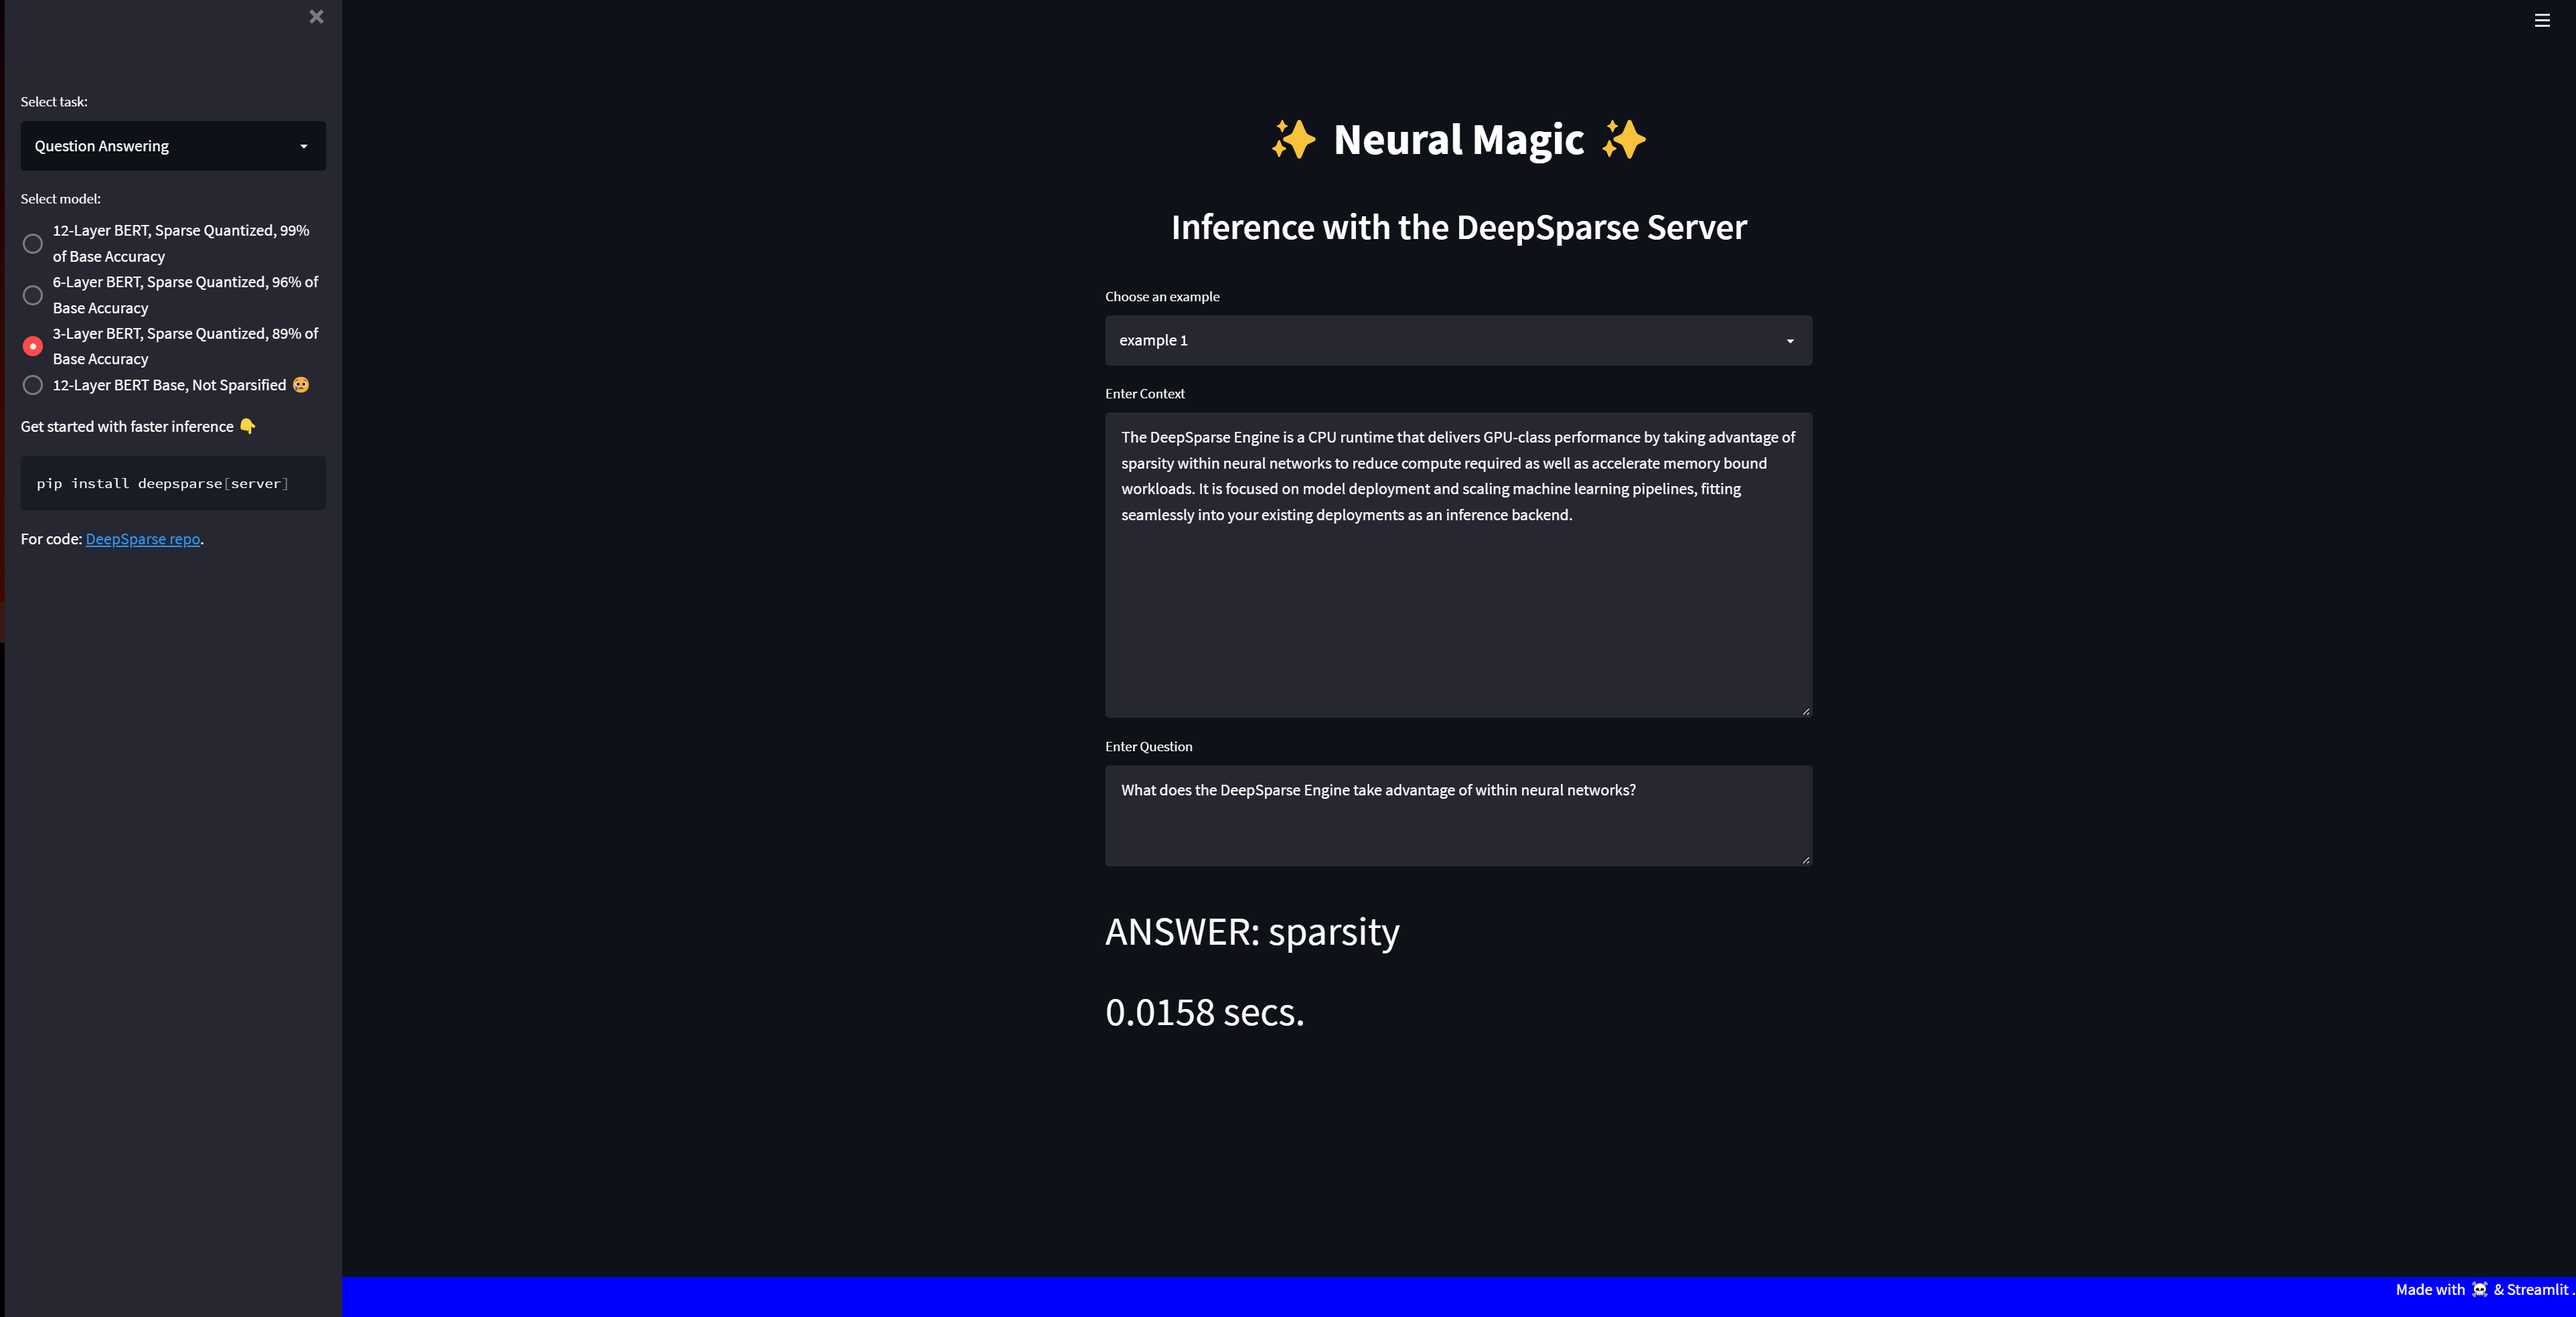
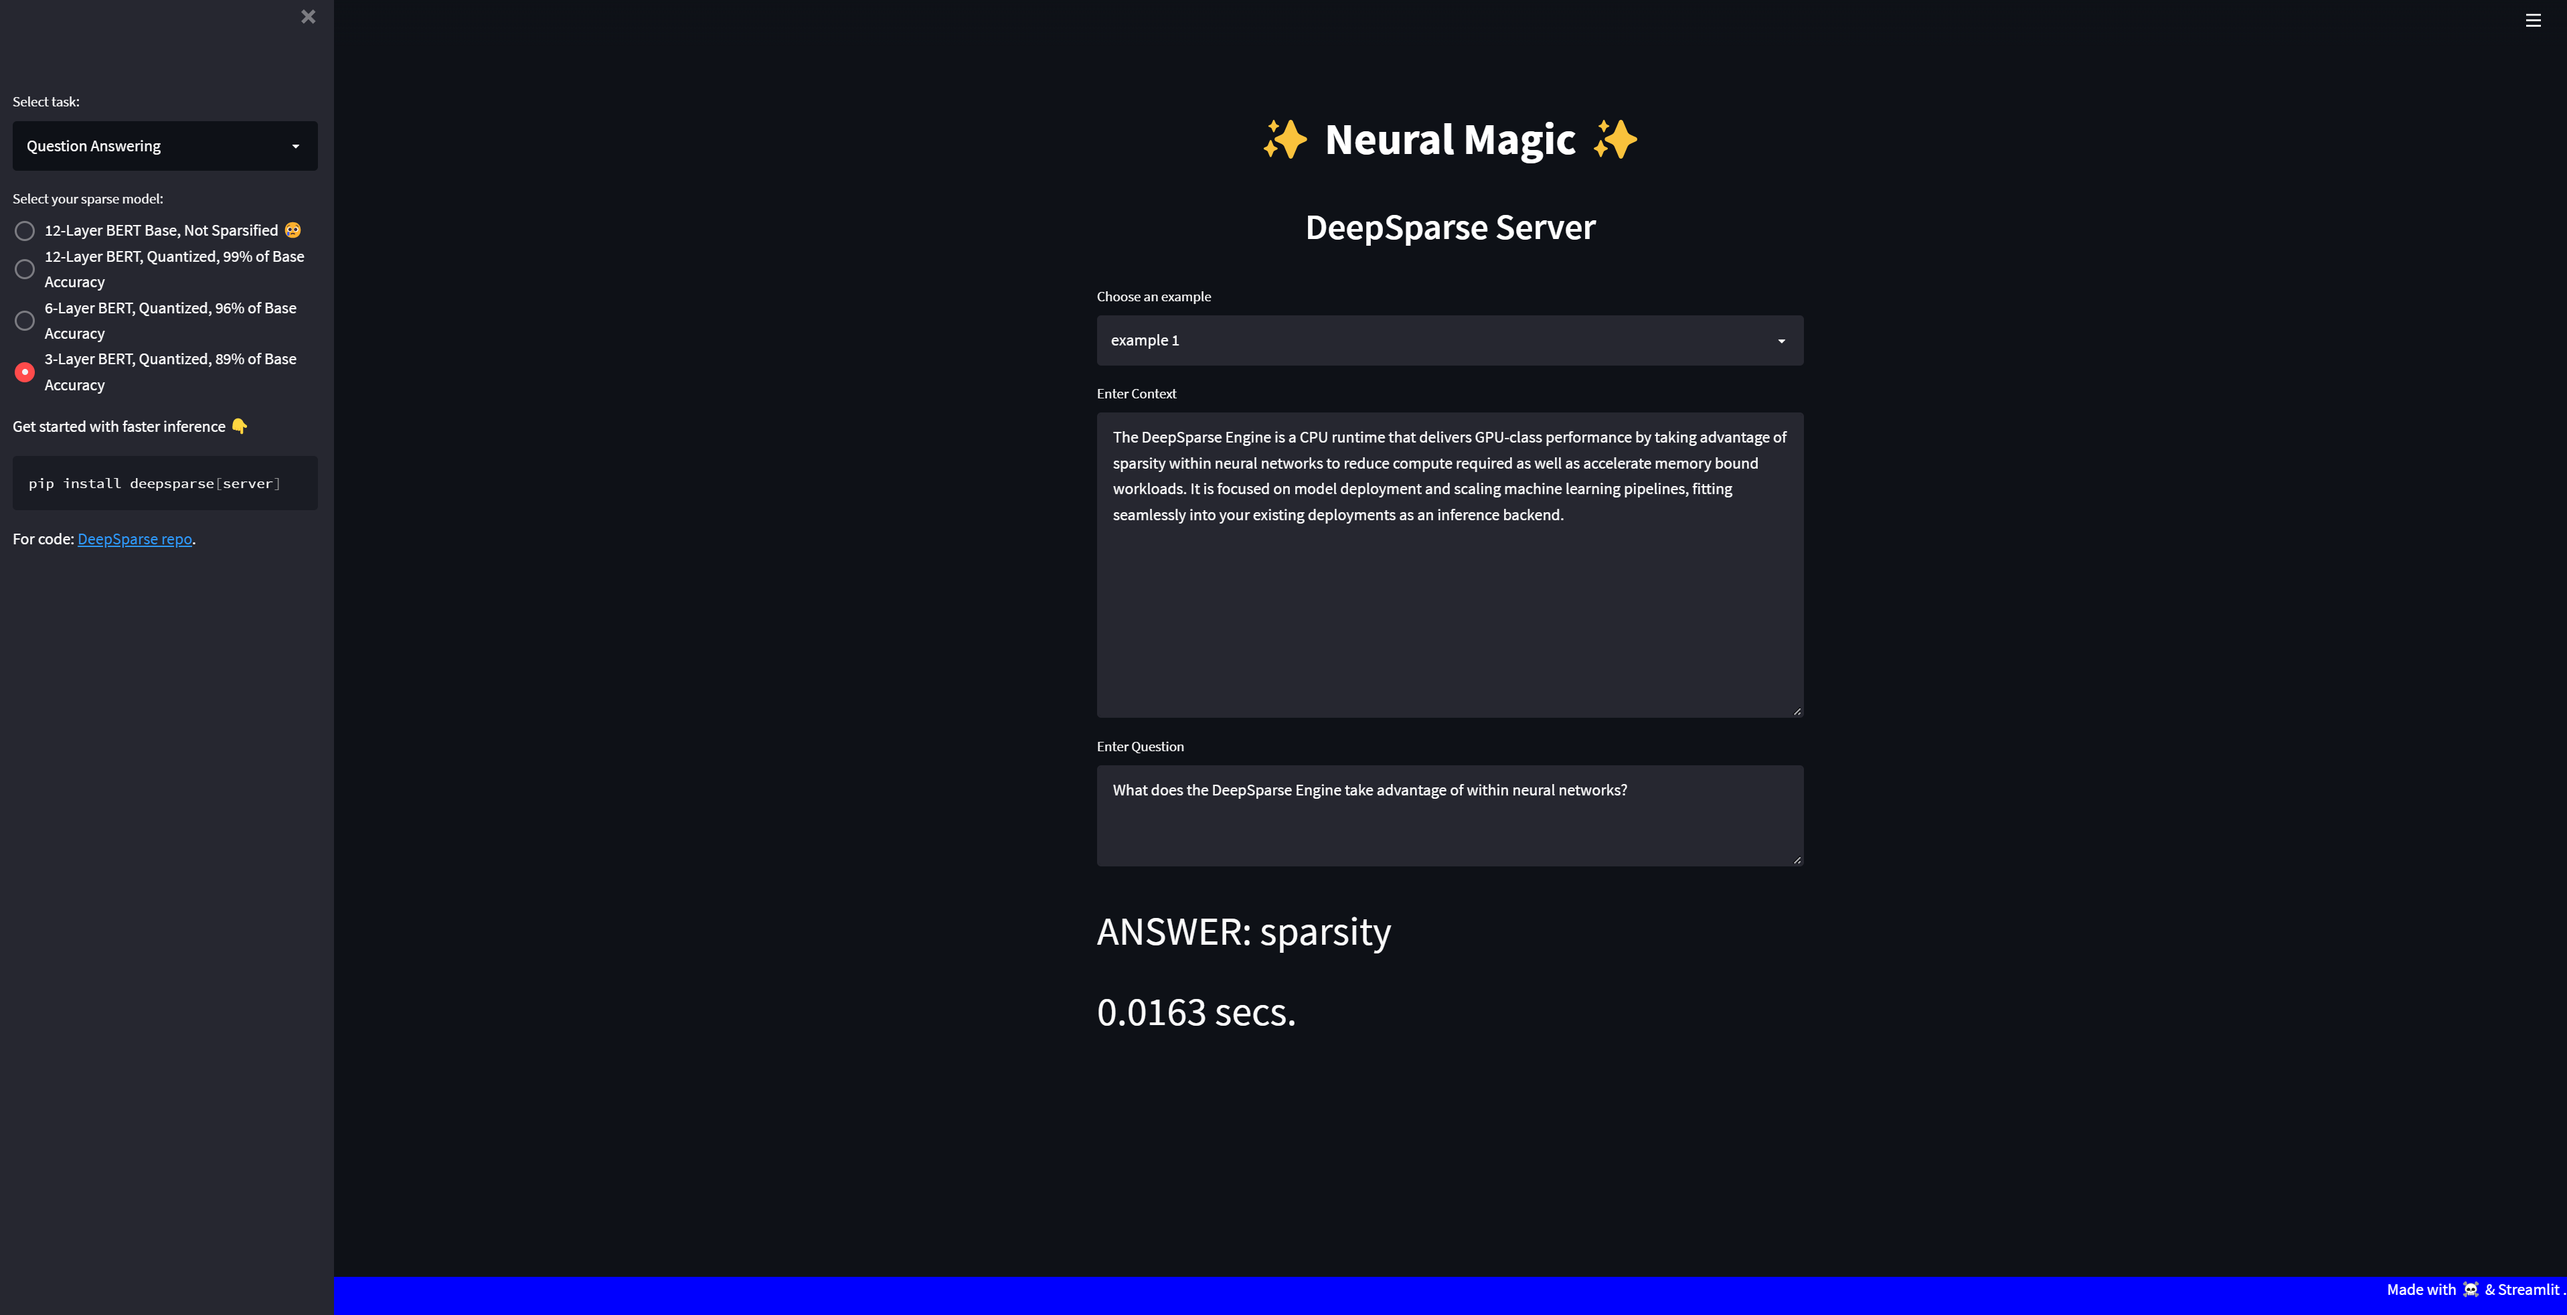
added new pic

diff --git a/examples/sparseserver-ui/README.md b/examples/sparseserver-ui/README.md
@@ -56,18 +56,18 @@ pip install -r requirements.txt
 
 The `config.yaml` file in the `server` directory includes a list of four BERT QA models for the DeepSparse Server to get started. If you prefer to add additional models to the `config.yaml` file, make sure to also add a `MultiPipelineClient` object to the `variants` attribute in the `settings.py` module.
 
-Currently, the SparseZoo contains 20 BERT models, and the `big-config.yaml` file contains the full list in case you want to load them all 🤯. To load all 20 models at once, make sure you have at least 16GB of RAM available, otherwise you will get out of memory errors.
+Currently, the SparseZoo contains 20 BERT models, and the `big-config.yaml` file contains the full list in case you want to load them all 🤯. To load all 20 models at once, make sure you have at least 16GB of RAM available, otherwise you will get out of memory errors. In addition, uncomment the pipelines in the `settings.py` module.
 
 For more details on question answering models, please refer to our [updated list](https://sparsezoo.neuralmagic.com/?domain=nlp&sub_domain=question_answering&page=1).
 
 ## <div>`START SERVER`</div>
 
-To download and initialize the models in the `config.yaml` file, run:
+To download and initialize the four models in the `config.yaml` file, run:
 ```bash
 deepsparse.server --config_file server/config.yaml
 ```
 
-The DeepSparse Server should now be running on host `0.0.0.0` and port `5543`.
+After downloading , the DeepSparse Server should now be running on host `0.0.0.0` and port `5543`.
 
 ## <div>`START CLIENT`</div>
 
@@ -75,9 +75,6 @@ Open a new terminal (make sure you are in your environment) and run the followin
 
 ```bash
 streamlit run client/app.py \
-    --theme.backgroundColor blue \
-    --theme.secondaryBackgroundColor black \
-    --theme.textColor white \
     --browser.serverAddress="localhost"
 ```
 
